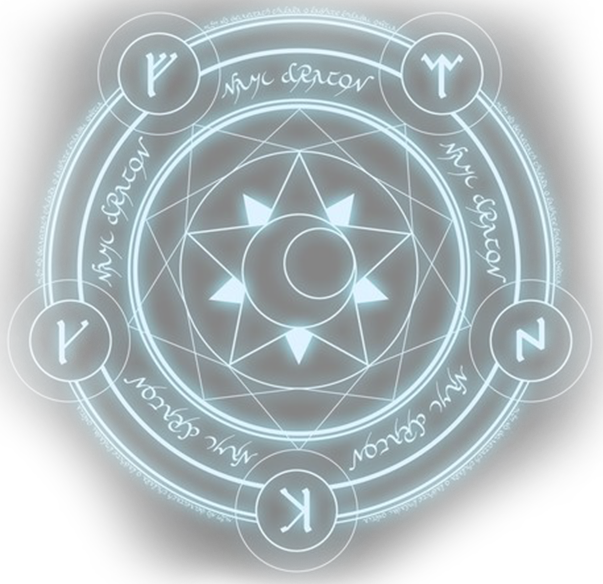
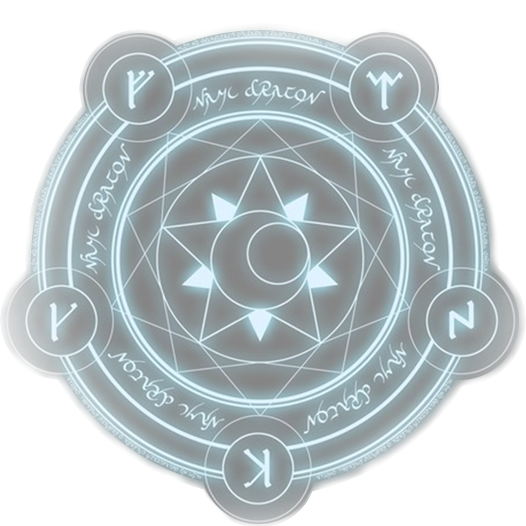
indexxxxxxx

diff --git a/html/index.html b/html/index.html
@@ -173,6 +173,7 @@
         <!--  進版圖  -->
         <div class="indexPic">
             <div class="magicRune">
+                <div class="runeImg">魔法陣圖片</div>
                 <img src="../img/index/index_title.png" alt="點算" class="indexImg indexTitle">
                 <img src="../img/index/index_subtitle.png" alt="解析過去，引領未來，算與被算，都來點算" class="indexImg indexSubtitle">
                 <img src="../img/index/index_impulse.png" alt="衝擊度300%預知預言" class="indexImg indexImpulse">
@@ -195,33 +196,34 @@
 		<!-- chooseBirthday -->
 
 
-        <div class="chooseBirthday">            
+        <div class="chooseBirthday">
+            <div class="birthdayFrame"></div>
         	<form action="" method="post" class="single">
                 <p class="text">請輸入你的生日</p>
                 <p>
-                    <span class="year"><select name="year"></select></span>
-                    <span class="month"><select name="month"></select></span>
-                    <span class="date"><select name="date"></select></span>
+                    <span class="year cursorHand"><select name="year"></select></span>
+                    <span class="month cursorHand"><select name="month"></select></span>
+                    <span class="date cursorHand"><select name="date"></select></span>
                 </p>
             	<p>
-            		<span class="btnM"><span class="btnText btnText2 singleSubmit">提交</span></span>
+            		<span class="btnM"><span class="btnText btnText2 singleSubmit cursorHand">提交</span></span>
             	</p>
             </form>
             <form action="" method="post" class="pair">
                 <p class="text">請輸入你的生日</p>
                 <p>
-                    <span class="year"><select name="year"></select></span>
-                    <span class="month"><select name="month"></select></span>
-                    <span class="date"><select name="date"></select></span>
+                    <span class="year cursorHand"><select name="year"></select></span>
+                    <span class="month cursorHand"><select name="month"></select></span>
+                    <span class="date cursorHand"><select name="date"></select></span>
                 </p>
                 <p class="text">請輸入對象的生日</p>
                 <p>
-                    <span class="year"><select name="pairYear"></select></span>
-                    <span class="month"><select name="pairMonth"></select></span>
-                    <span class="date"><select name="pairDate"></select></span>
+                    <span class="year cursorHand"><select name="pairYear"></select></span>
+                    <span class="month cursorHand"><select name="pairMonth"></select></span>
+                    <span class="date cursorHand"><select name="pairDate"></select></span>
                 </p>
             	<p>
-            		<span class="btnM"><span class="btnText btnText2 pairSubmit">提交</span></span>
+            		<span class="btnM"><span class="btnText btnText2 pairSubmit cursorHand">提交</span></span>
             	</p>
             </form>
         </div>

diff --git a/css/index.css b/css/index.css
@@ -28,11 +28,26 @@
 }
 .magicRune{
 	position: absolute;
-	left: 0;top: 250px;right: 0;
+	left: 0;top: 200px;right: 0;
 	margin: 0 auto;
-	width: 603px;
-	height: 584px;
+	width: 600px;
+	height: 600px;
+}
+.magicRune .runeImg{
+	font-size: 0;
+	position: absolute;
+	left: 0;	top: 0;
+	width: 100%;	height: 100%;
 	background: url(../img/index/starfield.png);
+	background-size: contain;
+	background-repeat: no-repeat;
+	animation: magicRune 200s;
+	filter: drop-shadow(0 0 1px rgba(255, 255, 255, 0.5));
+}
+@keyframes magicRune{
+	to{
+		transform: rotate(1000deg);
+	}
 }
 .indexImg{
 	position: absolute;
@@ -55,6 +70,7 @@
 .indexCorrect{
 	top: 336px;
 	left: 330px;
+	filter: drop-shadow( 0px 0px 3px rgba(255, 255, 255, 0.6) )  drop-shadow( 0px 0px 2px rgb(255, 255, 255));
 }
 .indexSmallText{
 	top: 415px;
@@ -81,18 +97,26 @@
 	clear: both;
 }
 .chooseBirthday{
+	position: relative;
 	box-sizing: border-box;
 	width: 600px;
 	background: url(../img/share/texture.png);
 	background-repeat: no-repeat;
 	background-size: 100% 100%;
-	border: 25px solid transparent;
-	border-image: url(../img/index/frame2.png) 90 90 repeat;
 	margin: 0 auto;
 	margin-top: 250px;
 	margin-bottom: 350px;
 	text-align: center;
-	padding: 30px;
+	padding: 50px;
+}
+.chooseBirthday .birthdayFrame{
+	position: absolute;
+	box-sizing: border-box;
+	top: 0;left: 0;
+	width: 100%;	height: 100%;
+	border: 45px solid transparent;
+	border-image: url(../img/index/frame2.png) 90 90 repeat;
+	filter: drop-shadow(0px 0px 5px black) drop-shadow(2px 2px 5px black);
 }
 .birthdayControl{
 	position: fixed;
@@ -101,26 +125,29 @@
 }
 .chooseBirthday p{
 	font-size: 0;
-	margin: 10px 0 30px 0;
+	margin: 20px 0 40px 0;
 }
 .chooseBirthday .text{
-	font-size: 24px;
-	line-height: 32px;
-	letter-spacing: 2px;
+	font-size: 32px;
+	line-height: 40px;
+	letter-spacing: 6px;
+	padding-left: 18px;
 	margin-bottom: 0;
 }
 .chooseBirthday p span select{
+	position: relative;
+	margin-left: 10px;
 	display: inline-block;
-	height: 24px;
+	height: 28px;
 	box-sizing: border-box;
-	font-size: 16px;
+	font-size: 20px;
 	background-color: #000;
 	color: #fff;
 	outline: 0;
 }
 .chooseBirthday p span:after{
 	display: inline-block;
-	font-size: 20px;
+	font-size: 24px;
 	margin: 0 6px;
 }
 .chooseBirthday p .year:after{
@@ -131,6 +158,9 @@
 }
 .chooseBirthday p .date:after{
 	content: '日';
+}
+.chooseBirthday p .btnM{
+	position: relative;
 }
 
 .resultArea{
